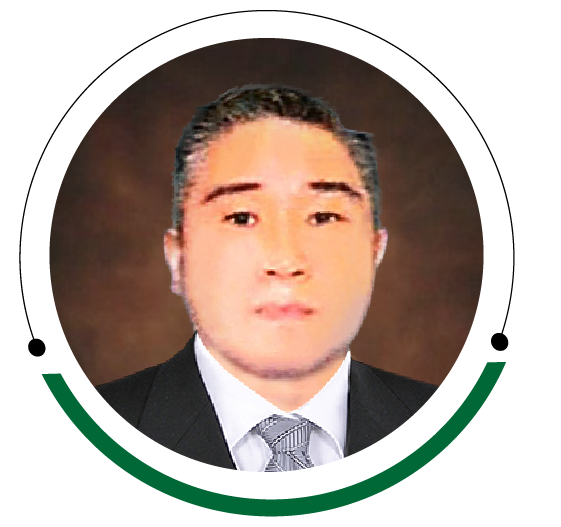
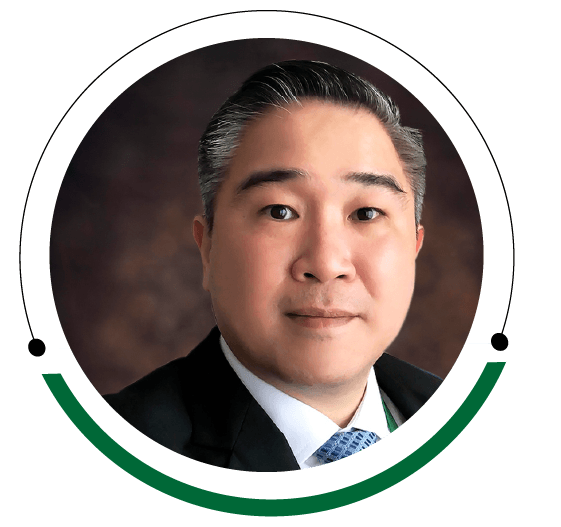
changes to images

diff --git a/dist/style.css b/dist/style.css
@@ -281,8 +281,8 @@ p {
 }
 
 .container--py {
-  padding-top: 1.375rem;
-  padding-bottom: 1.375rem;
+  padding-top: 1.875rem;
+  padding-bottom: 1.875rem;
 }
 
 @media (min-width: 64em) {
@@ -660,6 +660,7 @@ button,
     -webkit-box-flex: 1;
         -ms-flex: 1 50%;
             flex: 1 50%;
+    padding-left: 3%;
   }
 }
 
@@ -789,7 +790,7 @@ button,
 }
 
 .avatar_img_vac {
-  background-image: url("/images/headoffice/vacant.png");
+  background-image: url("/images/headoffice/joel.jpg");
   background-size: contain;
   background-position: center center;
   background-repeat: no-repeat;

diff --git a/app/scss/_avatar.scss b/app/scss/_avatar.scss
@@ -93,7 +93,7 @@
     }
 }
 .avatar_img_vac {
-    background-image: url("/images/headoffice/vacant.png");
+    background-image: url("/images/headoffice/joel.jpg");
     background-size: contain;
     background-position: center center;
     background-repeat: no-repeat;

diff --git a/app/scss/_globals.scss b/app/scss/_globals.scss
@@ -112,8 +112,8 @@ p {
         }
     }
     &--py {
-        padding-top: 1.375rem;
-        padding-bottom: 1.375rem;
+        padding-top: 1.875rem;
+        padding-bottom: 1.875rem;
 
         @include breakpoint-up(large) {
             padding-top: 2rem;

diff --git a/app/scss/_whoweare.scss b/app/scss/_whoweare.scss
@@ -48,6 +48,7 @@
         @include breakpoint-up(large) {
             font-size: 1.25rem;
             flex: 1 50%;
+            padding-left: 3%;
         }
     }
 }
